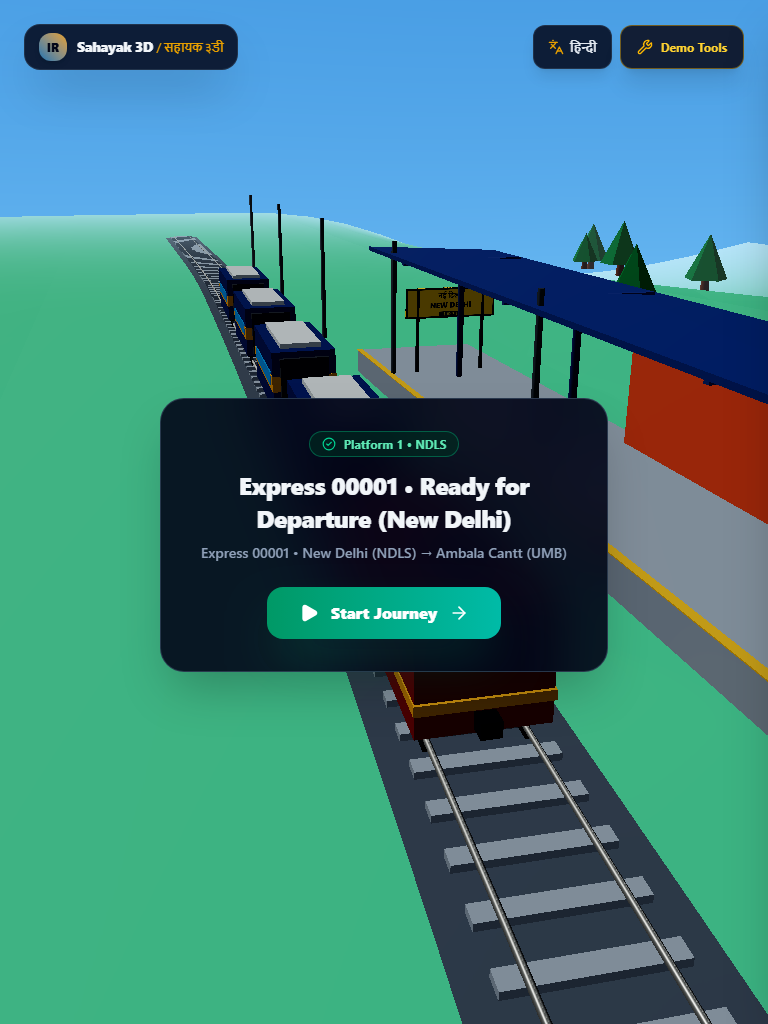
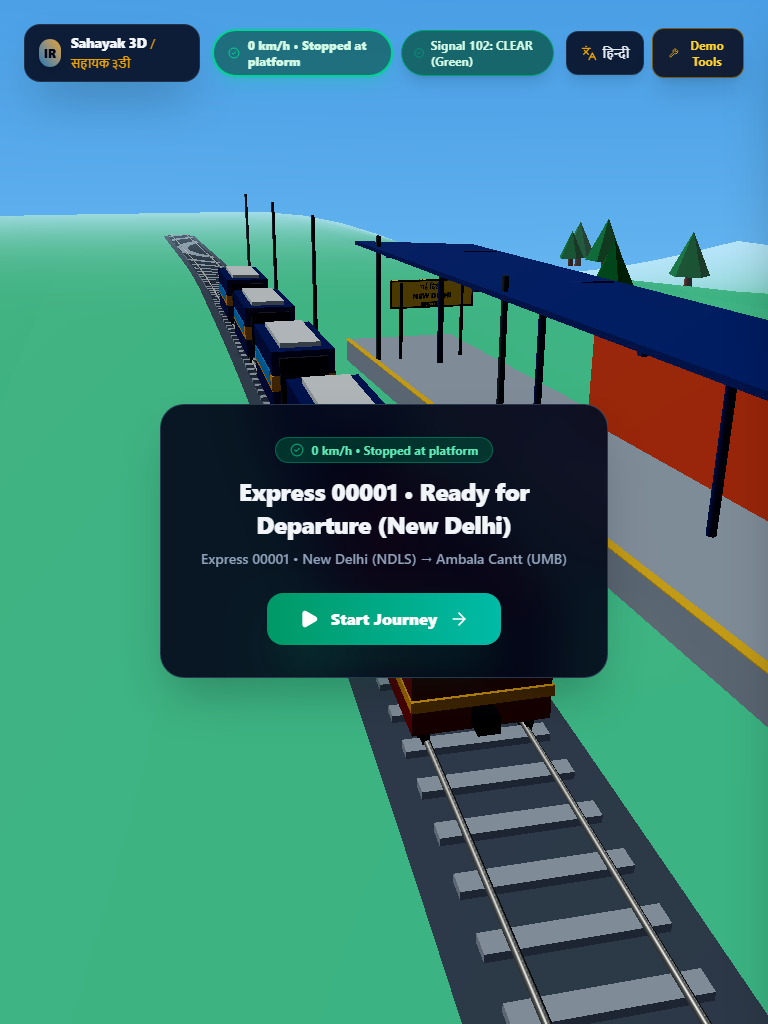
fix(metadata): update metadataBase to sahayak-tan-zeta.vercel.app, initial sig-102, approaching signal timeline, and stopped at platform status

diff --git a/src/components/ui/Overlay.tsx b/src/components/ui/Overlay.tsx
@@ -101,7 +101,18 @@ export function Overlay() {
     STATIONS.find((st) => st.progress > hudState.progress) || STATIONS[STATIONS.length - 1];
 
   // Authentic Okabe-Ito status badge config
+  const isTrainStopped = !journeyStarted || hudState.speed <= 0.001 || journeyPhysics.isStationStopped;
+
   const getStatusBadge = () => {
+    if (isTrainStopped && disruptionType === 'none' && status !== 'resolved') {
+      return {
+        icon: <CheckCircle2 className="w-4 h-4 text-emerald-400" aria-hidden="true" />,
+        labelEn: '0 km/h • Stopped at platform',
+        labelHi: '० किमी/घंटा • प्लेटफ़ॉर्म पर खड़ी है',
+        classes: 'bg-[#004D38]/60 text-[#D1FAE5] border-emerald-400 shadow-emerald-400/20',
+        pattern: 'border-solid border-2',
+      };
+    }
     switch (status) {
       case 'resolved':
         return {
@@ -148,7 +159,10 @@ export function Overlay() {
   };
 
   // Trackside Signal Aspect
-  const activeSignal = SIGNALS.find((s) => s.id === activeSignalId) || getNextSignalAhead(hudState.progress);
+  const approachingSignal = getNextSignalAhead(hudState.progress);
+  const activeSignal = disruptionType !== 'none'
+    ? (SIGNALS.find((s) => s.id === activeSignalId) || approachingSignal)
+    : approachingSignal;
 
   const getSignalAspect = () => {
     if (disruptionType === 'delay' || disruptionType === 'cancellation') {
@@ -203,9 +217,13 @@ export function Overlay() {
 
       {/* Screen Reader Live Region for Status Changes */}
       <div className="sr-only" aria-live="polite" role="status">
-        {isHindi
-          ? `वर्तमान स्थिति: ${statusBadge.labelHi}, गति: ${(hudState.speed * 440).toFixed(0)} किमी प्रति घंटा`
-          : `Current Journey Status: ${statusBadge.labelEn}, Speed: ${(hudState.speed * 440).toFixed(0)} km/h`}
+        {isTrainStopped && disruptionType === 'none' && status !== 'resolved'
+          ? (isHindi
+              ? 'वर्तमान स्थिति: ० किमी/घंटा • प्लेटफ़ॉर्म पर खड़ी है'
+              : 'Current Journey Status: 0 km/h • Stopped at platform')
+          : (isHindi
+              ? `वर्तमान स्थिति: ${statusBadge.labelHi}, गति: ${(hudState.speed * 440).toFixed(0)} किमी प्रति घंटा`
+              : `Current Journey Status: ${statusBadge.labelEn}, Speed: ${(hudState.speed * 440).toFixed(0)} km/h`)}
       </div>
 
       {/* Top Header Bar: Clean & Minimal */}
@@ -220,26 +238,24 @@ export function Overlay() {
           </span>
         </div>
 
-        {/* Live Status Pill & Signal (Visible once journey starts) */}
-        {journeyStarted && (
-          <div className="hidden md:flex items-center gap-2">
-            <div
-              className={`flex items-center gap-2 px-3.5 py-1.5 rounded-full text-xs font-black shadow-lg backdrop-blur-md transition-all duration-300 ${statusBadge.classes} ${statusBadge.pattern}`}
-            >
-              {statusBadge.icon}
-              <span>{isHindi ? statusBadge.labelHi : statusBadge.labelEn}</span>
-            </div>
-
-            <div
-              id="signal-aspect-badge"
-              className={`flex items-center gap-1.5 px-3 py-1.5 rounded-full text-xs font-bold border backdrop-blur-md shadow-lg transition-all ${signalAspect.colorClass}`}
-              title={`Trackside ${activeSignal.nameEn} aspect status`}
-            >
-              {signalAspect.icon}
-              <span>{isHindi ? signalAspect.textHi : signalAspect.textEn}</span>
-            </div>
+        {/* Live Status Pill & Signal (Visible always on desktop) */}
+        <div className="hidden md:flex items-center gap-2">
+          <div
+            className={`flex items-center gap-2 px-3.5 py-1.5 rounded-full text-xs font-black shadow-lg backdrop-blur-md transition-all duration-300 ${statusBadge.classes} ${statusBadge.pattern}`}
+          >
+            {statusBadge.icon}
+            <span>{isHindi ? statusBadge.labelHi : statusBadge.labelEn}</span>
           </div>
-        )}
+
+          <div
+            id="signal-aspect-badge"
+            className={`flex items-center gap-1.5 px-3 py-1.5 rounded-full text-xs font-bold border backdrop-blur-md shadow-lg transition-all ${signalAspect.colorClass}`}
+            title={`Trackside ${activeSignal.nameEn} aspect status`}
+          >
+            {signalAspect.icon}
+            <span>{isHindi ? signalAspect.textHi : signalAspect.textEn}</span>
+          </div>
+        </div>
 
         {/* Controls: Language Toggle & Collapsible "Demo tools" Drawer Trigger */}
         <div className="flex items-center gap-2">
@@ -274,10 +290,10 @@ export function Overlay() {
         /* FIRST VIEW: Train Scene, Plain-Language Status Headline, One Primary Action */
         <div role="region" aria-label={t.journeyBoardingStatus} className="my-auto flex flex-col items-center justify-center text-center px-4 pointer-events-auto">
           <div className="max-w-md w-full bg-slate-950/90 backdrop-blur-xl border border-slate-700/80 p-6 sm:p-8 rounded-3xl shadow-2xl flex flex-col items-center">
-            {/* Plain-Language Status Headline */}
-            <div className="inline-flex items-center gap-2 px-3 py-1 rounded-full bg-emerald-950/60 border border-emerald-500/40 text-emerald-300 text-xs font-bold mb-3">
-              <CheckCircle2 className="w-3.5 h-3.5 text-emerald-400" />
-              <span>Platform 1 • NDLS</span>
+            {/* Plain-Language Status Headline: 0 km/h • Stopped at platform */}
+            <div className="inline-flex items-center gap-2 px-3.5 py-1 rounded-full bg-[#004D38]/60 border border-[#009E73]/50 text-emerald-300 text-xs font-bold mb-3">
+              <CheckCircle2 className="w-3.5 h-3.5 text-[#009E73]" />
+              <span>{isHindi ? '० किमी/घंटा • प्लेटफ़ॉर्म पर खड़ी है' : '0 km/h • Stopped at platform'}</span>
             </div>
 
             <h1 className="text-xl sm:text-2xl font-black text-slate-100 tracking-tight leading-snug">
@@ -309,11 +325,17 @@ export function Overlay() {
               {/* Plain-Language Status Headline */}
               <div className="inline-flex items-center gap-2 px-3 py-1 rounded-full bg-[#004D38]/60 border border-[#009E73]/50 text-emerald-300 text-xs font-bold mb-2">
                 <CheckCircle2 className="w-3.5 h-3.5 text-[#009E73]" />
-                <span>{(hudState.speed * 440).toFixed(0)} km/h • {isHindi ? 'समय पर' : 'On Time'}</span>
+                <span>
+                  {isTrainStopped
+                    ? (isHindi ? '० किमी/घंटा • प्लेटफ़ॉर्म पर खड़ी है' : '0 km/h • Stopped at platform')
+                    : `${(hudState.speed * 440).toFixed(0)} km/h • ${isHindi ? 'समय पर' : 'On Time'}`}
+                </span>
               </div>
 
               <h2 className="text-lg sm:text-xl font-black text-slate-100 tracking-tight leading-snug">
-                {t.journeyRunningStatus}
+                {isTrainStopped
+                  ? (isHindi ? 'एक्सप्रेस ००००१ • प्लेटफ़ॉर्म पर रुकी हुई है' : 'Express 00001 • Stopped at platform')
+                  : t.journeyRunningStatus}
               </h2>
 
               {/* ONE PRIMARY ACTION: "Simulate a problem" */}

diff --git a/src/components/ui/JourneyTimelineA11y.tsx b/src/components/ui/JourneyTimelineA11y.tsx
@@ -24,7 +24,10 @@ export function JourneyTimelineA11y() {
   const isTimelineOpen = useJourneyStore((s) => s.isTimelineOpen);
   const setTimelineOpen = useJourneyStore((s) => s.setTimelineOpen);
 
-  const activeSignal = SIGNALS.find((s) => s.id === activeSignalId) || getNextSignalAhead(journeyPhysics.progress);
+  const approachingSignal = getNextSignalAhead(journeyPhysics.progress);
+  const activeSignal = disruptionType !== 'none'
+    ? (SIGNALS.find((s) => s.id === activeSignalId) || approachingSignal)
+    : approachingSignal;
 
   const t = translations[language];
   const isHindi = language === 'hi';
@@ -123,7 +126,7 @@ export function JourneyTimelineA11y() {
         <p>{t.timelineDesc}</p>
         <p>Current train: Express 00001</p>
         <p>Journey Status: {getStatusText()}</p>
-        <p>Track Signal: {getSignalAspectText()}</p>
+        <p>{isHindi ? 'निकटवर्ती ट्रैक सिग्नल:' : 'Approaching Track Signal:'} {getSignalAspectText()}</p>
         <p>Route Alignment: {activeBranch === 'branch' ? 'Bypass Chord Line' : 'Main Corridor'}</p>
         <ol>
           {STATIONS.map((st, i) => {
@@ -176,7 +179,7 @@ export function JourneyTimelineA11y() {
               </div>
 
               <div className="flex justify-between items-center">
-                <span className="text-slate-400 font-semibold">Track Signal:</span>
+                <span className="text-slate-400 font-semibold">{isHindi ? 'निकटवर्ती सिग्नल:' : 'Approaching Signal:'}</span>
                 <span className="font-bold text-emerald-400">{getSignalAspectText()}</span>
               </div>
 

diff --git a/src/app/layout.tsx b/src/app/layout.tsx
@@ -13,7 +13,7 @@ const geistMono = Geist_Mono({
 });
 
 export const metadata: Metadata = {
-  metadataBase: new URL("https://sahayak-3d.vercel.app"),
+  metadataBase: new URL("https://sahayak-tan-zeta.vercel.app"),
   title: {
     default: "Sahayak 3D | Real-Time 3D Rail Journey & Disruption Simulator",
     template: "%s | Sahayak 3D",
@@ -40,16 +40,25 @@ export const metadata: Metadata = {
     title: "Sahayak 3D | Real-Time 3D Rail Journey & Disruption Simulator",
     description:
       "An accessible, real-time 3D low-poly Indian rail corridor companion for passenger journeys and instant disruption decision making.",
-    url: "https://sahayak-3d.vercel.app",
+    url: "https://sahayak-tan-zeta.vercel.app",
     siteName: "Sahayak 3D",
     locale: "en_IN",
     type: "website",
+    images: [
+      {
+        url: "https://sahayak-tan-zeta.vercel.app/opengraph-image",
+        width: 1200,
+        height: 630,
+        alt: "Sahayak 3D - Low-poly Indian Rail Journey Simulator",
+      },
+    ],
   },
   twitter: {
     card: "summary_large_image",
     title: "Sahayak 3D | Real-Time 3D Rail Journey & Disruption Simulator",
     description:
       "An accessible, real-time 3D low-poly Indian rail corridor companion for passenger journeys and instant disruption decision making.",
+    images: ["https://sahayak-tan-zeta.vercel.app/opengraph-image"],
   },
 };
 

diff --git a/src/i18n/translations.ts b/src/i18n/translations.ts
@@ -178,6 +178,8 @@ export const translations = {
     simulateProblemBtn: 'Simulate a Disruption',
     journeyBoardingStatus: 'Express 00001 • Ready for Departure (New Delhi)',
     journeyRunningStatus: 'Express 00001 • Cruising Smoothly (110 km/h)',
+    stoppedAtPlatform: 'Stopped at platform',
+    stoppedAtPlatformSpeed: '0 km/h • Stopped at platform',
 
     // "Why this ranking?" expander
     whyRankingBtn: 'Why this ranking?',
@@ -382,6 +384,8 @@ export const translations = {
     simulateProblemBtn: 'समस्या का अनुकरण करें',
     journeyBoardingStatus: 'एक्सप्रेस ००००१ • प्रस्थान के लिए तैयार (नई दिल्ली)',
     journeyRunningStatus: 'एक्सप्रेस ००००१ • सामान्य गति पर अग्रसर (११० किमी/घंटा)',
+    stoppedAtPlatform: 'प्लेटफ़ॉर्म पर खड़ी है',
+    stoppedAtPlatformSpeed: '० किमी/घंटा • प्लेटफ़ॉर्म पर खड़ी है',
 
     // "Why this ranking?" expander
     whyRankingBtn: 'यह रैंकिंग क्यों?',

diff --git a/src/components/3d/SignalHeads.tsx b/src/components/3d/SignalHeads.tsx
@@ -22,7 +22,7 @@ export function SignalHeads({ position = [2.8, 0, -165], signalId = 'sig-104' }:
   const greenLampRef = useRef<THREE.MeshStandardMaterial>(null);
 
   // Red signal when delayed, cancelled, or holding for the active signal ahead
-  const isThisSignalActive = !signalId || signalId === activeSignalId || (!activeSignalId && signalId === 'sig-104');
+  const isThisSignalActive = !signalId || signalId === activeSignalId || (!activeSignalId && signalId === 'sig-102');
   const isRed = (disruptionType === 'delay' || disruptionType === 'cancellation') && isThisSignalActive;
   const isYellow = (disruptionType === 'missed_connection' || disruptionType === 'platform_change') && isThisSignalActive;
   const isGreen = !isRed && !isYellow;

diff --git a/src/components/ui/DecisionCardsOverlay.tsx b/src/components/ui/DecisionCardsOverlay.tsx
@@ -105,9 +105,12 @@ export function DecisionCardsOverlay() {
 
   // If normal cruising and not resolved, do not show options cards
   if (options.length === 0 && status !== 'resolved') {
+    const isStopped = !useJourneyStore.getState().journeyStarted || journeyPhysics.speed <= 0.001 || journeyPhysics.isStationStopped;
     return (
       <div className="sr-only" aria-live="polite">
-        {t.bannerNormal}
+        {isStopped
+          ? (isHindi ? 'वर्तमान स्थिति: ० किमी/घंटा • प्लेटफ़ॉर्म पर खड़ी है' : 'Current Journey Status: 0 km/h • Stopped at platform')
+          : t.bannerNormal}
       </div>
     );
   }

diff --git a/src/store/journeyStore.ts b/src/store/journeyStore.ts
@@ -228,7 +228,7 @@ export const useJourneyStore = create<JourneyState>((set, get) => ({
 
   activeBranch: 'main',
   branchProgress: 0,
-  activeSignalId: 'sig-104',
+  activeSignalId: 'sig-102',
 
   shadowTier: 'blob', // Default fast contact blob shadows
   scrollMode: false,
@@ -369,7 +369,7 @@ export const useJourneyStore = create<JourneyState>((set, get) => ({
     let nextStatus: JourneyStatus = 'on-time';
     let targetSpeed = 0.25;
 
-    let nextSignalId = get().activeSignalId || 'sig-104';
+    let nextSignalId = get().activeSignalId || 'sig-102';
 
     let statusMessageEn = 'ON TIME';
     let statusMessageHi = 'समय पर';

diff --git a/src/components/3d/Train.tsx b/src/components/3d/Train.tsx
@@ -190,6 +190,12 @@ export function Train() {
         }
       } else {
         journeyPhysics.progress = Math.max(journeyPhysics.progress, nextProgress);
+        if (disruptionType === 'none') {
+          const approachingSig = getNextSignalAhead(journeyPhysics.progress);
+          if (useJourneyStore.getState().activeSignalId !== approachingSig.id) {
+            useJourneyStore.getState().setActiveSignalId(approachingSig.id);
+          }
+        }
       }
     }
 
